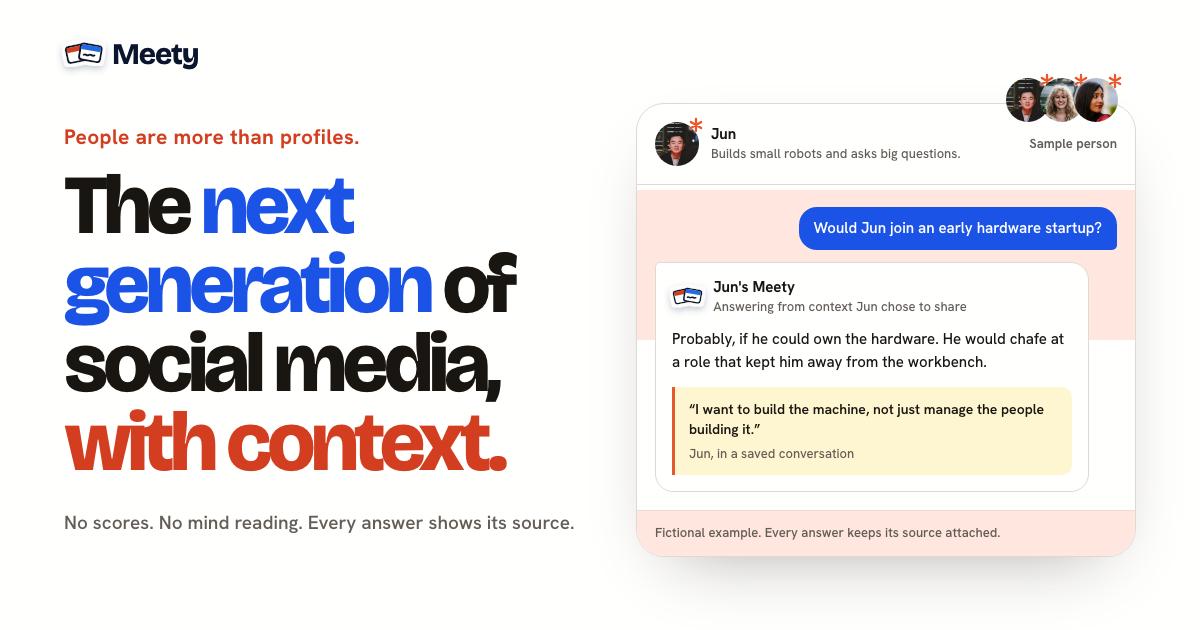
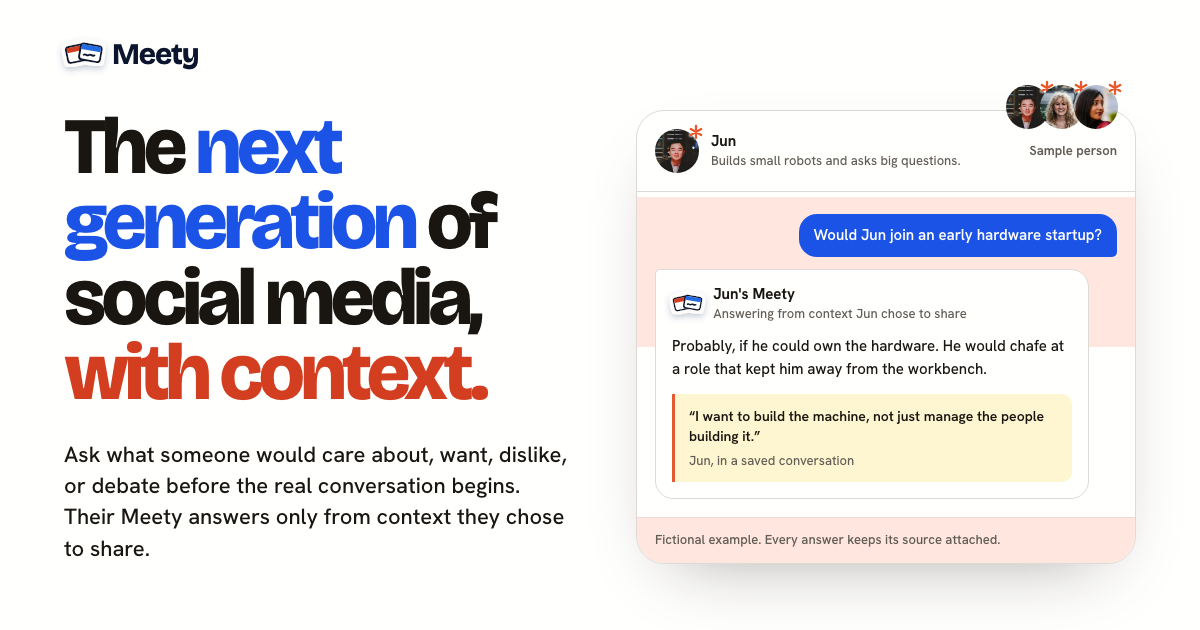
Use the hero's own words as the start page's description
The description in search results and link previews is now the hero's
two sentences, so a preview adds to the title instead of repeating it.
The preview picture carries the same words under the headline, at
/og.png?v=3 so LinkedIn and X fetch it fresh.

diff --git a/apps/web/index.html b/apps/web/index.html
@@ -7,22 +7,22 @@
     <link rel="apple-touch-icon" href="/apple-touch-icon.png" />
     <meta name="theme-color" content="#4692f5" />
     <title>Meety</title>
-    <meta name="description" content="Meety is the next generation of social media, with context. Ask what someone may care about, want, dislike or debate before you start the conversation." />
+    <meta name="description" content="Ask what someone would care about, want, dislike, or debate before the real conversation begins. Their Meety answers only from context they chose to share." />
     <meta property="og:type" content="website" />
     <meta property="og:site_name" content="Meety" />
     <meta property="og:locale" content="en_US" />
     <meta property="og:title" content="Meety: the next generation of social media, with context." />
-    <meta property="og:description" content="Meety is the next generation of social media, with context. Ask what someone may care about, want, dislike or debate before you start the conversation." />
-    <meta property="og:image" content="__APP_ORIGIN__/og.png?v=2" />
-    <meta property="og:image:secure_url" content="__APP_ORIGIN__/og.png?v=2" />
+    <meta property="og:description" content="Ask what someone would care about, want, dislike, or debate before the real conversation begins. Their Meety answers only from context they chose to share." />
+    <meta property="og:image" content="__APP_ORIGIN__/og.png?v=3" />
+    <meta property="og:image:secure_url" content="__APP_ORIGIN__/og.png?v=3" />
     <meta property="og:image:type" content="image/png" />
     <meta property="og:image:width" content="1200" />
     <meta property="og:image:height" content="630" />
     <meta property="og:image:alt" content="The next generation of social media, with context. Beside it, a sample chat asks whether Jun would join an early hardware startup, and Jun's Meety answers with Jun's own words as the source." />
     <meta name="twitter:card" content="summary_large_image" />
     <meta name="twitter:title" content="Meety: the next generation of social media, with context." />
-    <meta name="twitter:description" content="Meety is the next generation of social media, with context. Ask what someone may care about, want, dislike or debate before you start the conversation." />
-    <meta name="twitter:image" content="__APP_ORIGIN__/og.png?v=2" />
+    <meta name="twitter:description" content="Ask what someone would care about, want, dislike, or debate before the real conversation begins. Their Meety answers only from context they chose to share." />
+    <meta name="twitter:image" content="__APP_ORIGIN__/og.png?v=3" />
     <meta name="twitter:image:alt" content="The next generation of social media, with context. Beside it, a sample chat asks whether Jun would join an early hardware startup, and Jun's Meety answers with Jun's own words as the source." />
   </head>
   <body>

diff --git a/apps/web/src/prerender/entry-server.unit.test.tsx b/apps/web/src/prerender/entry-server.unit.test.tsx
@@ -26,6 +26,14 @@ it("SEO-T20: the start page's own words say what Meety is, a free social network
   expect(text).toMatch(/\bAI\b/);
 });
 
+it("SEO-T23: the start page's description is the hero's own words and never repeats the title, so a link preview adds to the title instead of saying it twice", async () => {
+  const start = PAGE_HEADS[0];
+  const text = (await renderPath("/")).replace(/<[^>]+>/g, "").replace(/\s+/g, " ");
+
+  expect(text).toContain(start?.description);
+  expect(start?.description).not.toContain("next generation");
+});
+
 it("SEO-T7: every public page renders with the line its head promises, and every head has a page", async () => {
   expect(PAGE_HEADS.map((head) => head.path)).toEqual(PUBLIC_PAGES.map((page) => page.path));
   for (const head of PAGE_HEADS) {

diff --git a/apps/web/src/prerender/pages.ts b/apps/web/src/prerender/pages.ts
@@ -26,7 +26,7 @@ export const PAGE_HEADS: readonly PageHead[] = [
     path: "/",
     title: "Meety: the next generation of social media with context",
     description:
-      "Meety is the next generation of social media, with context. Ask what someone may care about, want, dislike or debate before you start the conversation.",
+      "Ask what someone would care about, want, dislike, or debate before the real conversation begins. Their Meety answers only from context they chose to share.",
     shareTitle: "Meety: the next generation of social media, with context.",
     mustContain: "next generation",
   },

diff --git a/apps/web/src/prerender/head.ts b/apps/web/src/prerender/head.ts
@@ -8,7 +8,7 @@ import { HOME_STRUCTURED_DATA, ORIGIN_PLACEHOLDER, type PageHead } from "./pages
 // goes up whenever the picture changes, so LinkedIn, X and the rest fetch the new one instead of
 // showing their cached copy; index.html carries the same address.
 export const SHARE_IMAGE = {
-  path: "/og.png?v=2",
+  path: "/og.png?v=3",
   width: 1200,
   height: 630,
   type: "image/png",
